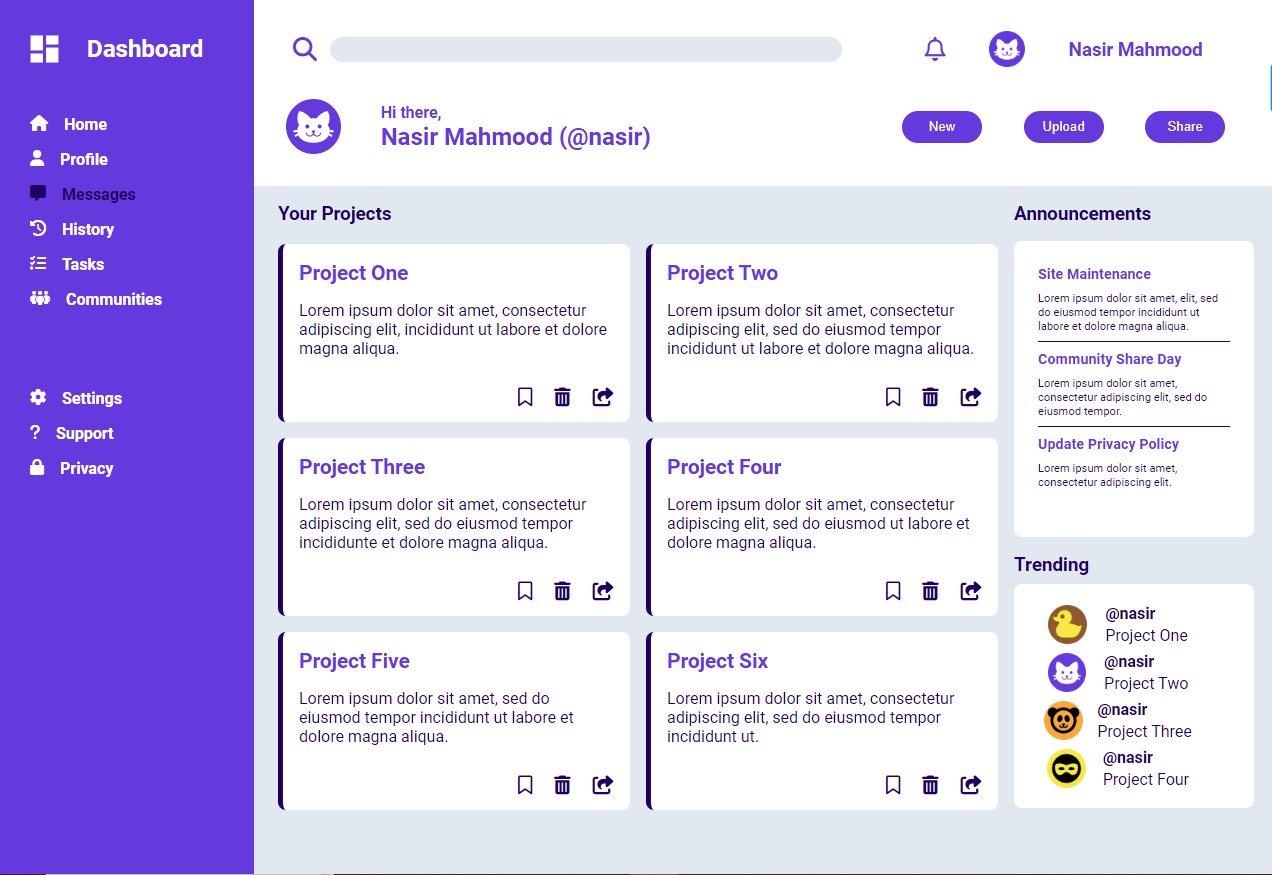
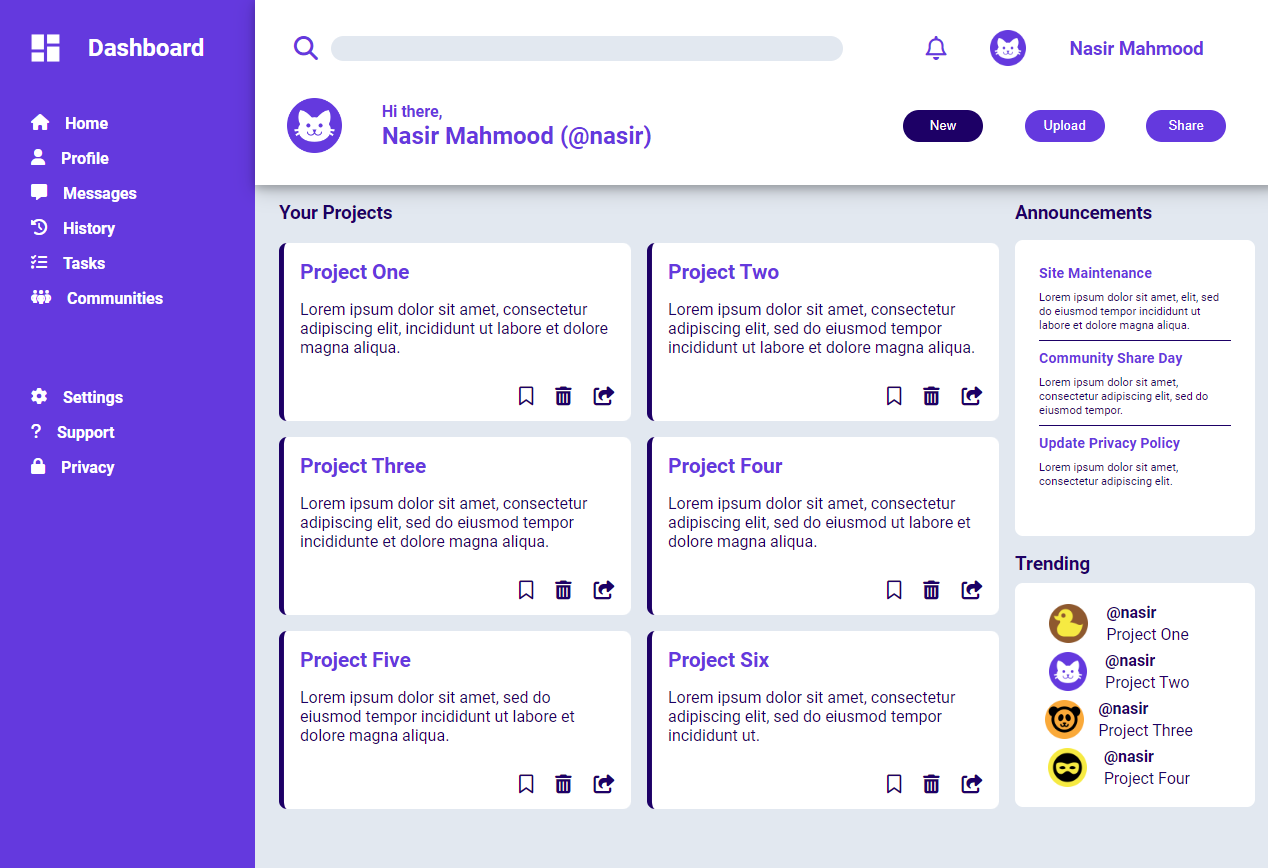
Update project display image in readme file

diff --git a/style.css b/style.css
@@ -38,6 +38,8 @@ header {
   grid-template-columns: repeat(5, 1fr);
   padding: 2rem;
   color: #5646e3;
+  z-index: 999;
+  box-shadow: 0 4px 8px 0 rgba(0, 0, 0, 0.2), 0 6px 20px 0 rgba(0, 0, 0, 0.19);
 }
 
 .search-wrapper {
